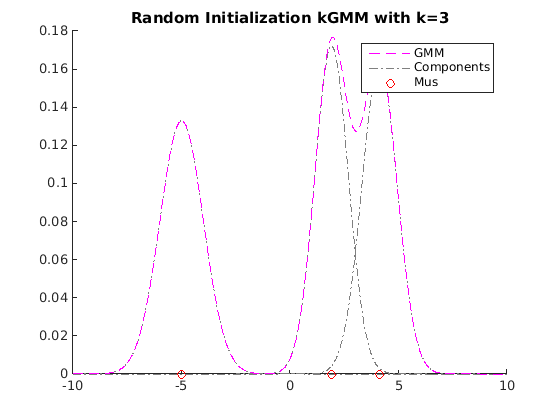
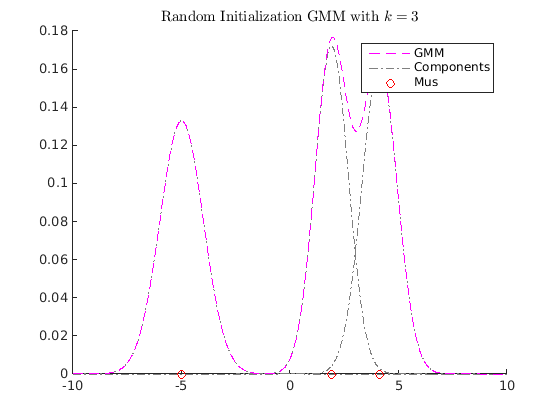
New manual github page.

Changed region(s): [[0.2125, 0.0, 0.8196, 0.0619]]

diff --git a/index.html b/index.html
@@ -1,3 +1,4 @@
+
 <!DOCTYPE html
   PUBLIC "-//W3C//DTD HTML 4.01 Transitional//EN">
 <html><head>
@@ -5,7 +6,7 @@
    <!--
 This HTML was auto-generated from MATLAB code.
 To make changes, update the MATLAB code and republish this document.
-      --><title>DEMO for Interpolation on the manifold of k-GMMs</title><meta name="generator" content="MATLAB 8.4"><link rel="schema.DC" href="http://purl.org/dc/elements/1.1/"><meta name="DC.date" content="2016-01-02"><meta name="DC.source" content="DEMO_MAIN_ICCV2015_KGMM_INTERPOLATION.m"><style type="text/css">
+      --><title>DEMO for "Interpolation on the manifold of k-GMMs"</title><meta name="generator" content="MATLAB 8.4"><link rel="schema.DC" href="http://purl.org/dc/elements/1.1/"><meta name="DC.date" content="2016-01-02"><meta name="DC.source" content="DEMO_MAIN_ICCV2015_KGMM_INTERPOLATION.m"><style type="text/css">
 html,body,div,span,applet,object,iframe,h1,h2,h3,h4,h5,h6,p,blockquote,pre,a,abbr,acronym,address,big,cite,code,del,dfn,em,font,img,ins,kbd,q,s,samp,small,strike,strong,sub,sup,tt,var,b,u,i,center,dl,dt,dd,ol,ul,li,fieldset,form,label,legend,table,caption,tbody,tfoot,thead,tr,th,td{margin:0;padding:0;border:0;outline:0;font-size:100%;vertical-align:baseline;background:transparent}body{line-height:1}ol,ul{list-style:none}blockquote,q{quotes:none}blockquote:before,blockquote:after,q:before,q:after{content:'';content:none}:focus{outine:0}ins{text-decoration:none}del{text-decoration:line-through}table{border-collapse:collapse;border-spacing:0}
 
 html { min-height:100%; margin-bottom:1px; }
@@ -65,7 +66,7 @@ table td { padding:7px 5px; text-align:left; vertical-align:top; border:1px soli
 
 
 
-  </style></head><body><div class="content"><h1>DEMO for Interpolation on the manifold of k-GMMs</h1><!--introduction--><p>Hyunwoo J. Kim, Nagesh Adluru, Monami Banerjee, Baba C. Vemuri, Vikas Singh, Interpolation on the manifold of k component Gaussian Mixture Models (GMMs), In International Conference on Computer Vision (ICCV), December 2015.</p><p>Project page. <a href="http://pages.cs.wisc.edu/~hwkim/projects/k-gmm/">http://pages.cs.wisc.edu/~hwkim/projects/k-gmm/</a></p><p>Github repository <a href="http://github.com/MLman/kgmm_interpolation">http://github.com/MLman/kgmm_interpolation</a></p><p>Github page <a href="http://mlman.github.io/kgmm_interpolation/">http://mlman.github.io/kgmm_interpolation/</a></p><!--/introduction--><h2>Contents</h2><div><ul><li><a href="#1">Generate random gmm distributions.</a></li><li><a href="#2">GMM parameterizations</a></li><li><a href="#3">Distance between GMMs</a></li><li><a href="#4">Gradient descent scheme for <img src="DEMO_MAIN_ICCV2015_KGMM_INTERPOLATION_eq11695167239558615666.png" alt="$l_2$">-distance</a></li><li><a href="#5">EM algorithm for KL-divergence or cross entory.</a></li><li><a href="#6">Modified EM (our restricted GPMM)</a></li></ul></div><h2>Generate random gmm distributions.<a name="1"></a></h2><pre class="codeinput">clear
+  </style></head><body><div class="content"><h1>DEMO for "Interpolation on the manifold of k-GMMs"</h1><!--introduction--><p>Hyunwoo J. Kim, Nagesh Adluru, Monami Banerjee, Baba C. Vemuri, Vikas Singh, Interpolation on the manifold of k component Gaussian Mixture Models (GMMs), In International Conference on Computer Vision (ICCV), December 2015.</p><p>Project page: <a href="http://pages.cs.wisc.edu/~hwkim/projects/k-gmm/">http://pages.cs.wisc.edu/~hwkim/projects/k-gmm/</a></p><p>Github repository: <a href="http://github.com/MLman/kgmm_interpolation/">http://github.com/MLman/kgmm_interpolation/</a></p><p>Github page: <a href="http://mlman.github.io/kgmm_interpolation/">http://mlman.github.io/kgmm_interpolation/</a></p><p>The last update by <a href="http://pages.cs.wisc.edu/~hwkim/index.html">Hyunwoo J Kim</a>  2016/01/02 13:30:55 (CST)</p><!--/introduction--><h2>Contents</h2><div><ul><li><a href="#1">Generate random gmm distributions.</a></li><li><a href="#2">GMM parameterizations</a></li><li><a href="#3">Distance between GMMs</a></li><li><a href="#4">Gradient descent scheme for <img src="DEMO_MAIN_ICCV2015_KGMM_INTERPOLATION_eq11695167239558615666.png" alt="$l_2$">-distance</a></li><li><a href="#5">EM algorithm for KL-divergence or cross entory.</a></li><li><a href="#6">Modified EM (our restricted GPMM)</a></li></ul></div><h2>Generate random gmm distributions.<a name="1"></a></h2><pre class="codeinput">clear
 rng <span class="string">default</span>
 addpath(genpath(<span class="string">'.'</span>))
 kcomp = 3;
@@ -103,7 +104,7 @@ gmml2mean = l2meanGMMs(gmms);
 
 figure
 myplotgmm1D(gmml2mean,[-10,10],[1,0,1],0.01);
-title(sprintf(<span class="string">'L2 mean of GMMs with k= %d'</span>, length(gmml2mean.PComponents)));
+title(sprintf(<span class="string">'L2 mean of GMMs with $$k=%d$$'</span>, length(gmml2mean.PComponents)),<span class="string">'interpreter'</span>,<span class="string">'latex'</span>);
 maxiter = 100;
 k = 3;
 tic
@@ -111,12 +112,12 @@ tic
 toc
 figure
 myplotgmm1D(gmm0,[-10,10],[1,0,1],0.01);
-title(sprintf(<span class="string">'Random Initialization kGMM with k=%d'</span>,k));
+title(sprintf(<span class="string">'Random Initialization GMM with $$k=%d$$'</span>,k),<span class="string">'interpreter'</span>,<span class="string">'latex'</span>);
 
 figure
 myplotgmm1D(kgmm,[-10,10],[1,0,1],0.01);
-title(sprintf(<span class="string">'Learned GMM with k=%d'</span>, k));
-</pre><pre class="codeoutput">Elapsed time is 0.709698 seconds.
+title(sprintf(<span class="string">'Learned GMM with $$k=%d$$ by $$\\ell_2$$ minimization '</span>, k),<span class="string">'interpreter'</span>,<span class="string">'latex'</span>)
+</pre><pre class="codeoutput">Elapsed time is 0.699512 seconds.
 </pre><img vspace="5" hspace="5" src="DEMO_MAIN_ICCV2015_KGMM_INTERPOLATION_01.png" alt=""> <img vspace="5" hspace="5" src="DEMO_MAIN_ICCV2015_KGMM_INTERPOLATION_02.png" alt=""> <img vspace="5" hspace="5" src="DEMO_MAIN_ICCV2015_KGMM_INTERPOLATION_03.png" alt=""> <h2>EM algorithm for KL-divergence or cross entory.<a name="5"></a></h2><p>Note that the proposed EM algorithms do not optimize L2 distance. But it returns a good solution w.r.t L2 distance too.</p><pre class="codeinput">option.maxiter = 100;
 [gmmbar_em, stats] = em_gmm_closest_full(gmml2mean, k, option)
 
@@ -191,20 +192,21 @@ L2 distance 0.022180, parameter change 1.788741e-02 tol 1.000000e-06
 L2 distance 0.022180, parameter change 3.913876e-06 tol 1.000000e-06 
 </pre><img vspace="5" hspace="5" src="DEMO_MAIN_ICCV2015_KGMM_INTERPOLATION_05.png" alt=""> <p class="footer"><br><a href="http://www.mathworks.com/products/matlab/">Published with MATLAB&reg; R2014b</a><br></p></div><!--
 ##### SOURCE BEGIN #####
-%% DEMO for Interpolation on the manifold of k-GMMs
+%% DEMO for "Interpolation on the manifold of k-GMMs"
 % Hyunwoo J. Kim, Nagesh Adluru, Monami Banerjee, Baba C. Vemuri, Vikas Singh, 
 % Interpolation on the manifold of k component Gaussian Mixture Models (GMMs),
 % In International Conference on Computer Vision (ICCV), December 2015. 
 %
-% Project page.
+% Project page:
 % http://pages.cs.wisc.edu/~hwkim/projects/k-gmm/
 %
-% Github repository
-% http://github.com/MLman/kgmm_interpolation
+% Github repository:
+% http://github.com/MLman/kgmm_interpolation/ 
 %
-% Github page
+% Github page:
 % http://mlman.github.io/kgmm_interpolation/
 %
+% The last update by <http://pages.cs.wisc.edu/~hwkim/index.html Hyunwoo J Kim>  2016/01/02 13:30:55 (CST)
 
 %% Generate random gmm distributions.
 
@@ -253,7 +255,7 @@ gmml2mean = l2meanGMMs(gmms);
 
 figure
 myplotgmm1D(gmml2mean,[-10,10],[1,0,1],0.01);
-title(sprintf('L2 mean of GMMs with k= %d', length(gmml2mean.PComponents)));
+title(sprintf('L2 mean of GMMs with $$k=%d$$', length(gmml2mean.PComponents)),'interpreter','latex');
 maxiter = 100;
 k = 3;
 tic
@@ -261,11 +263,11 @@ tic
 toc
 figure
 myplotgmm1D(gmm0,[-10,10],[1,0,1],0.01);
-title(sprintf('Random Initialization kGMM with k=%d',k));
+title(sprintf('Random Initialization GMM with $$k=%d$$',k),'interpreter','latex');
 
 figure
 myplotgmm1D(kgmm,[-10,10],[1,0,1],0.01);
-title(sprintf('Learned GMM with k=%d', k));
+title(sprintf('Learned GMM with $$k=%d$$ by $$\\ell_2$$ minimization ', k),'interpreter','latex')
 
 %% EM algorithm for KL-divergence or cross entory.
 % Note that the proposed EM algorithms do not optimize L2 distance.
